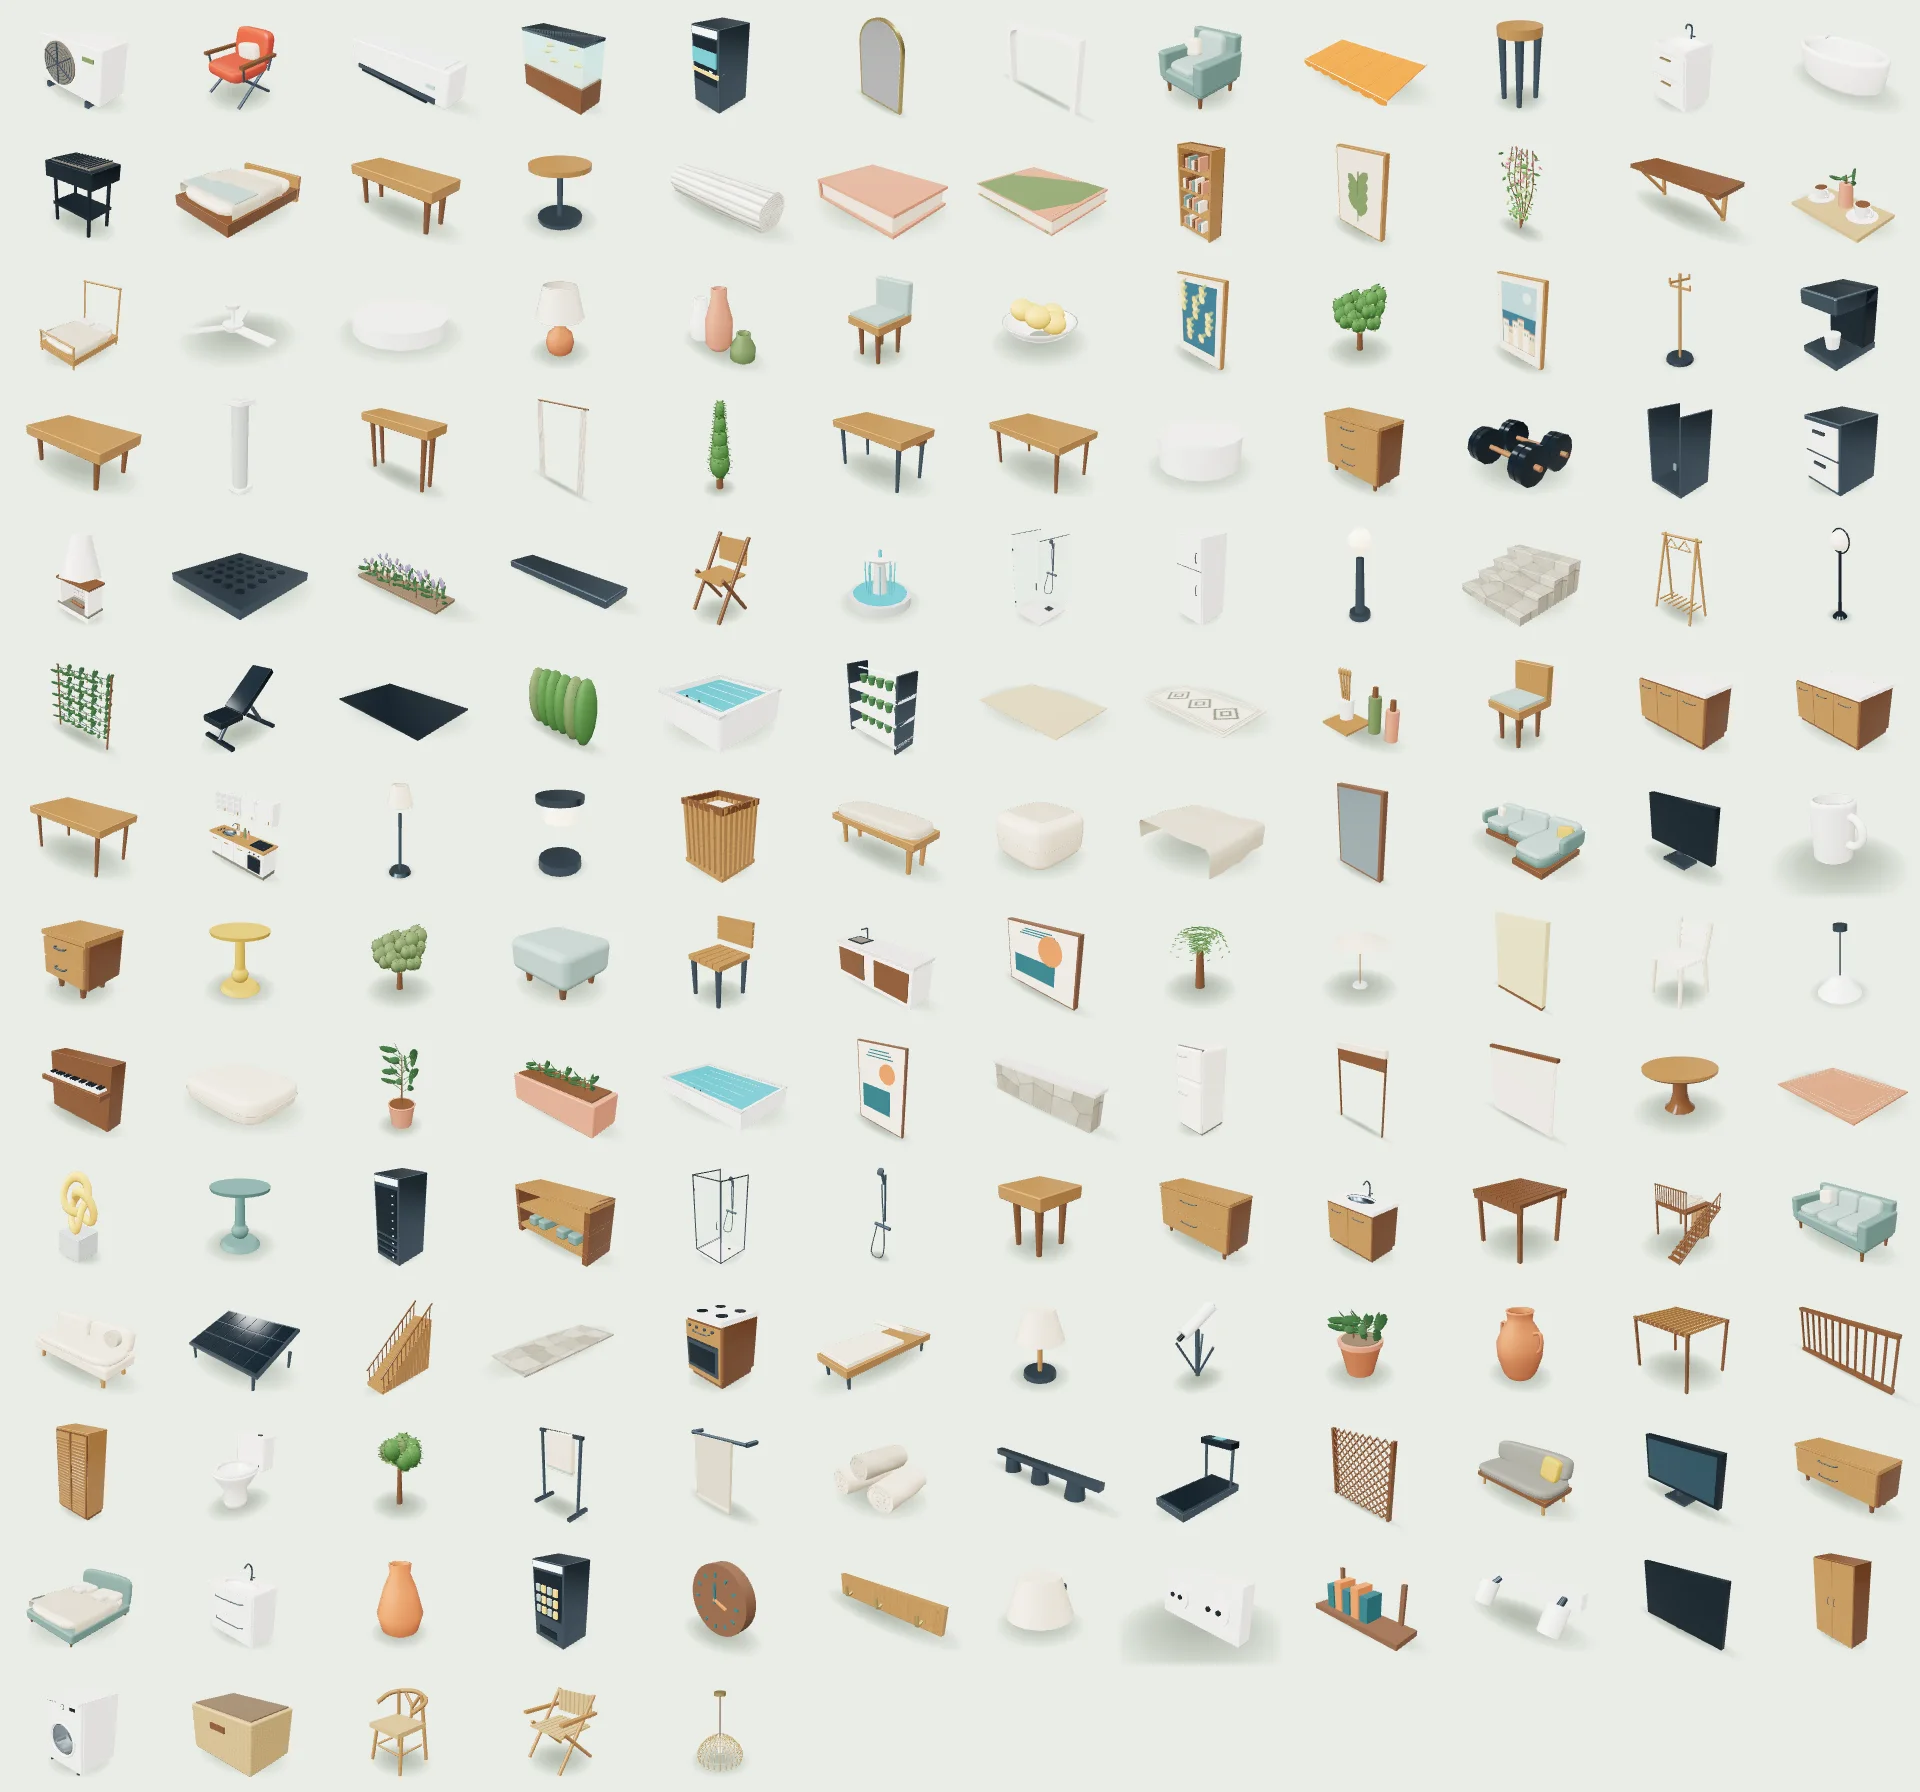
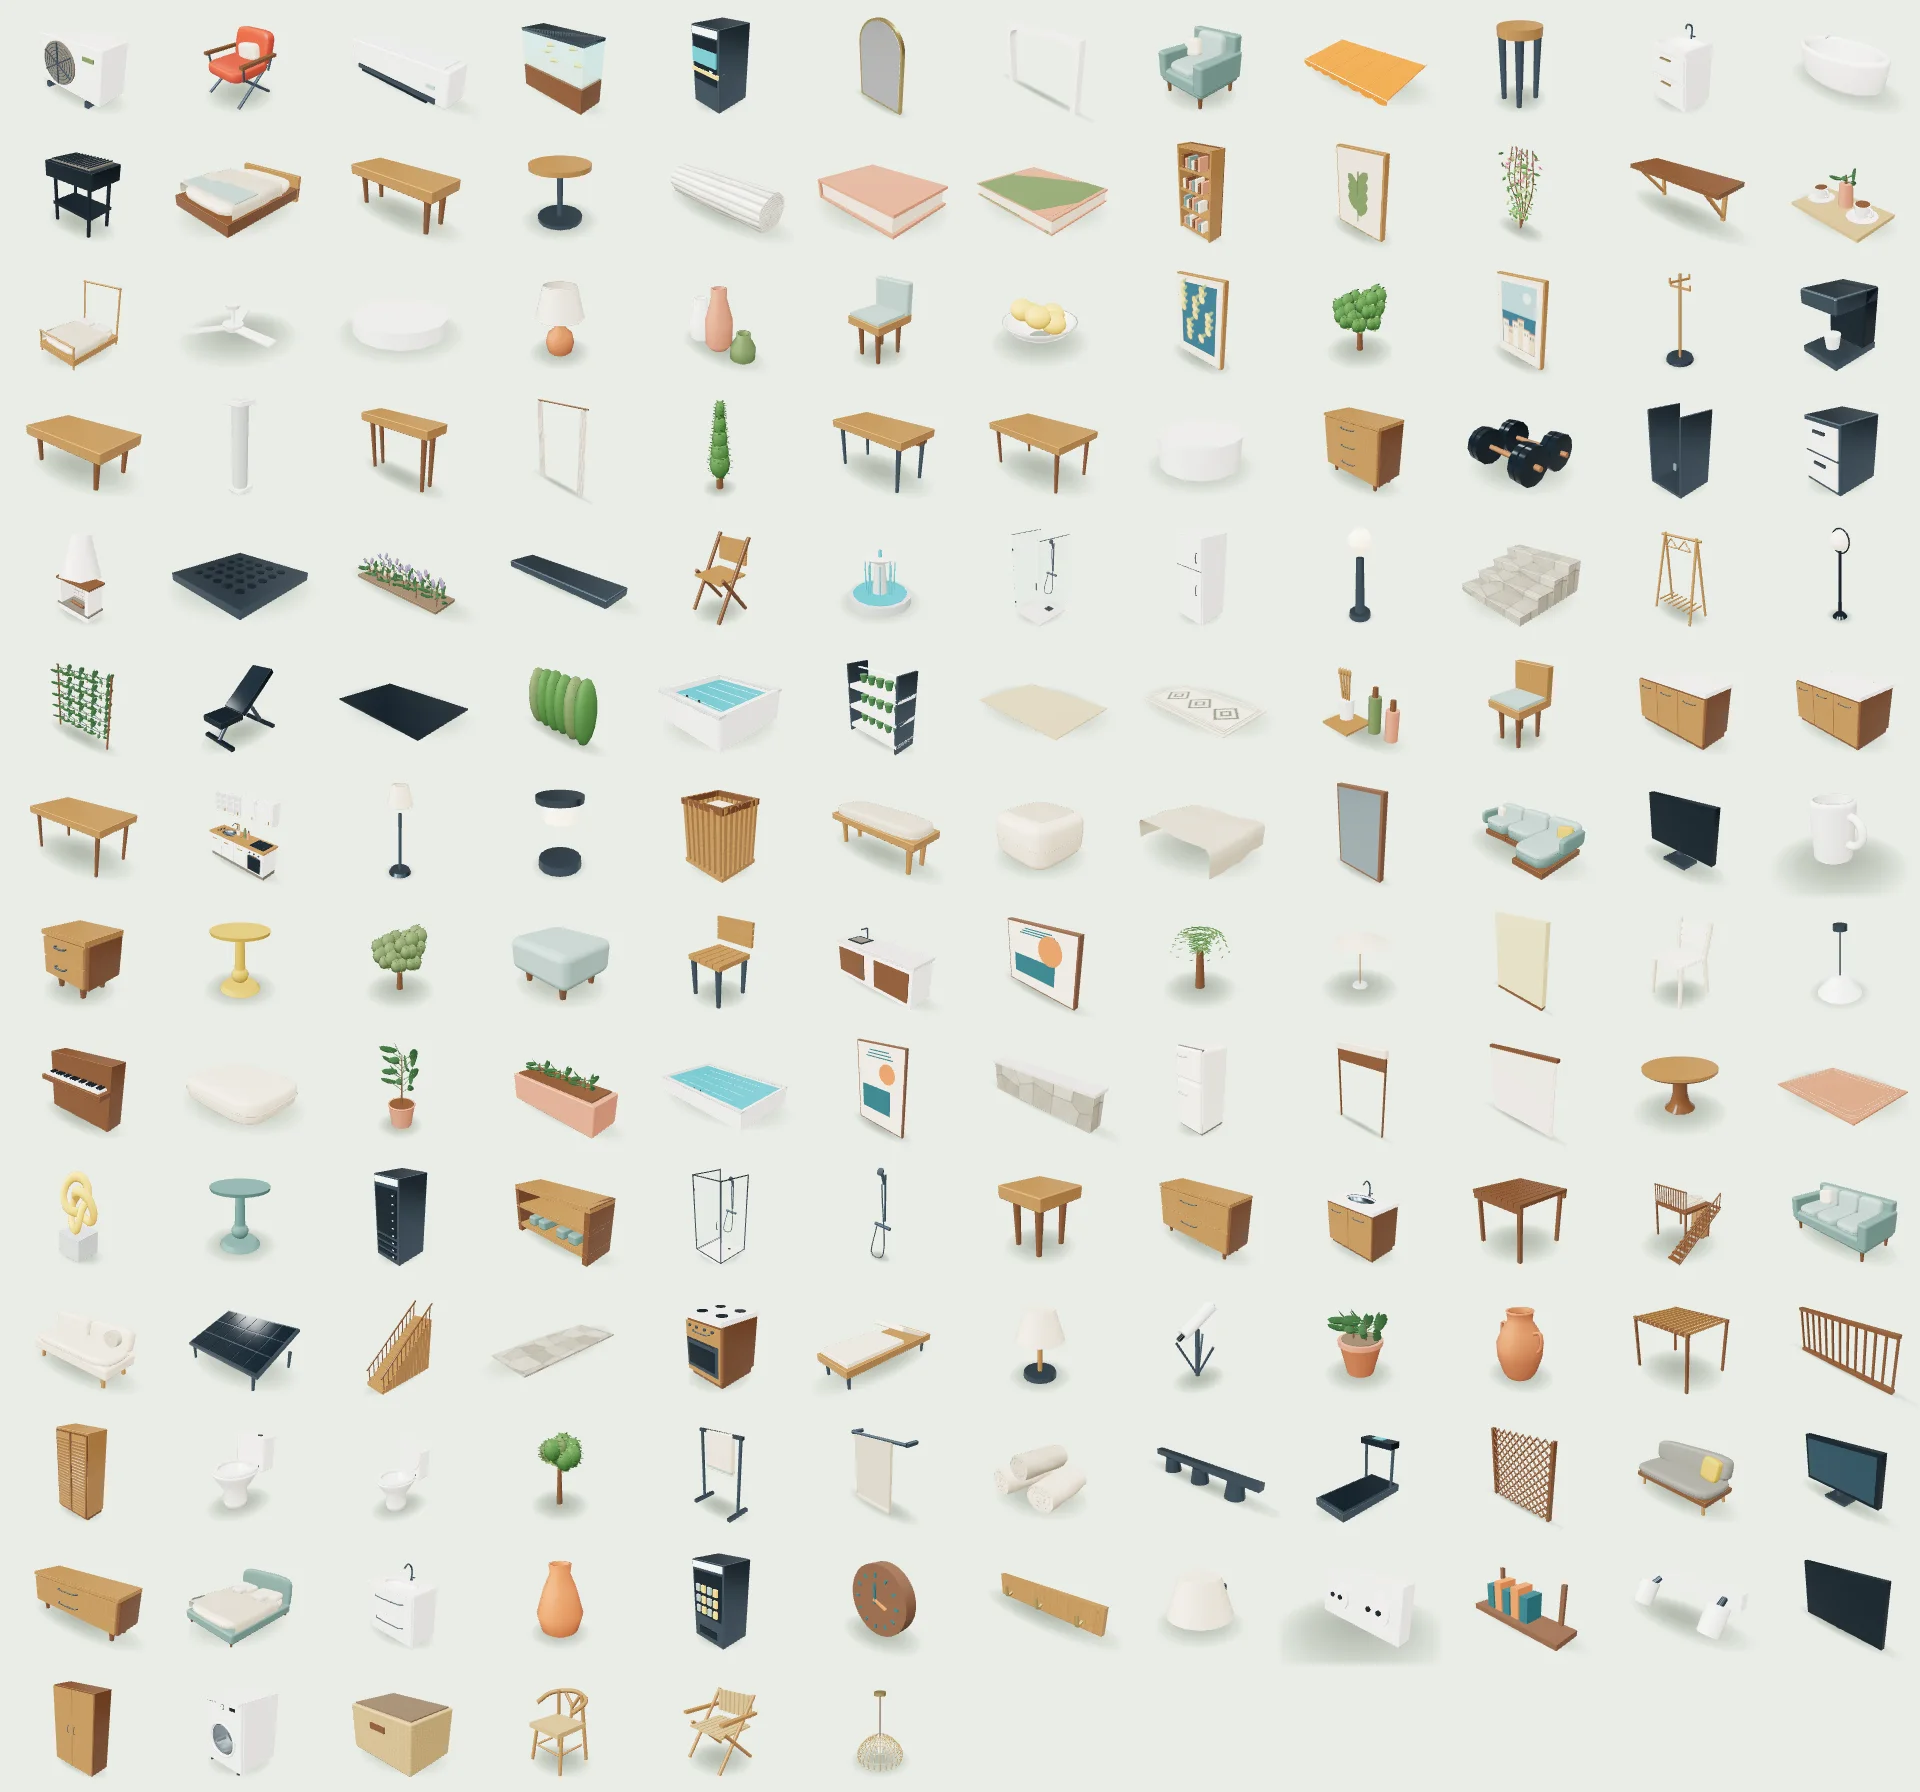
Add reusable raised-lid toilet variant

diff --git a/packages/interior-design-editor/script.js b/packages/interior-design-editor/script.js
@@ -1540,7 +1540,7 @@
           [
             [0, 2, "bathroom_vanity~west"],
             [3, 1, "frameless_shower"],
-            [2, 3, "toilet~south"],
+            [2, 3, "toilet_open~south"],
             [2, 2, "floor_drain"],
             [4, 3, "towel_rail[0.6x0.14x1.25]~east"],
           ],
@@ -4721,6 +4721,7 @@
       table_lamp: [0.28, 0.28, 0.4],
       telescope: [1.1, 1.2, 1.65],
       toilet: [0.43, 0.65, 0.72],
+      toilet_open: [0.43, 0.65, 0.94],
       towel_rack: [0.65, 0.32, 0.95],
       track_light: [1.2, 0.22, 2.7],
       treadmill: [0.9, 1.8, 1.3],
@@ -8628,7 +8629,8 @@
           }
           break;
         }
-        case "toilet": {
+        case "toilet":
+        case "toilet_open": {
           const profile = [
               [0, 0],
               [0.1, 0],
@@ -8676,6 +8678,24 @@
           seat.castShadow = true;
           seat.receiveShadow = true;
           group.add(seat);
+          if (name === "toilet_open") {
+            const lidOutline = seatOutline.clone();
+            lidOutline.holes = [];
+            const lidGeometry = new THREE.ExtrudeGeometry(lidOutline, {
+                bevelEnabled: true,
+                bevelSegments: 1,
+                bevelSize: 0.002,
+                bevelThickness: 0.002,
+                curveSegments: 12,
+                depth: 0.012,
+                steps: 1,
+              }),
+              lid = new THREE.Mesh(lidGeometry, material.white);
+            lid.position.set(0, 0.683, -0.133);
+            lid.castShadow = true;
+            lid.receiveShadow = true;
+            group.add(lid);
+          }
           const water = new THREE.Mesh(new THREE.CircleGeometry(0.065, 24), material.basinWater);
           water.rotation.x = -Math.PI / 2;
           water.scale.y = 1.23;
